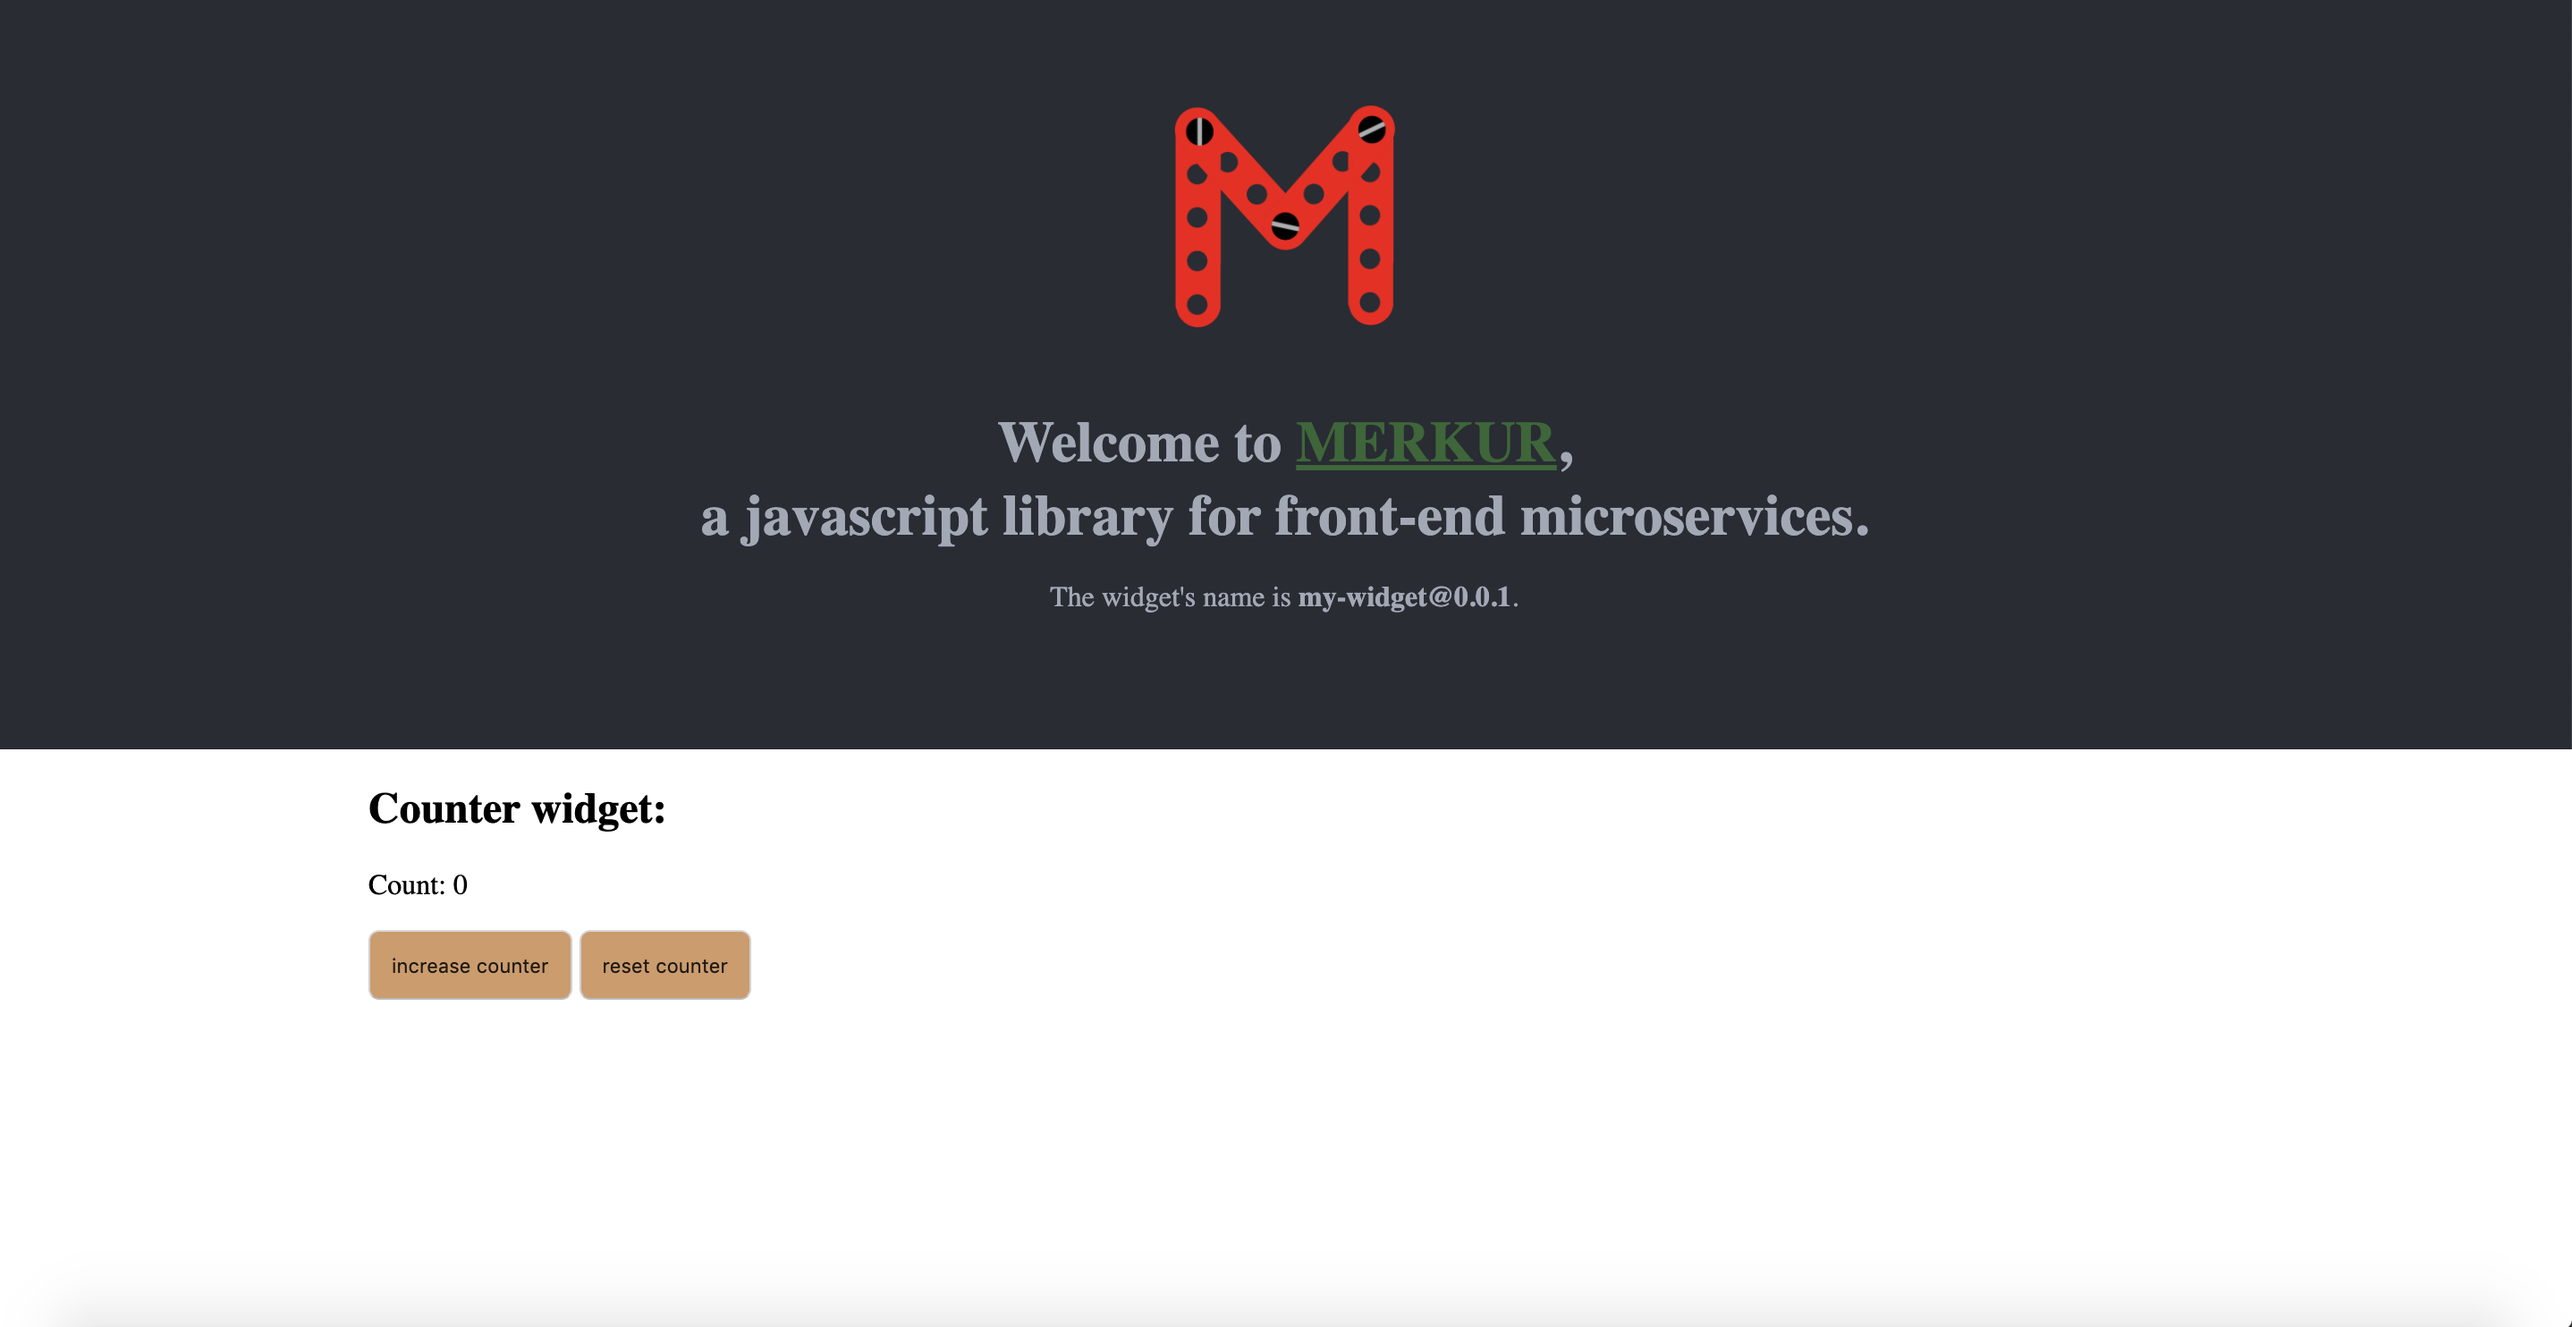
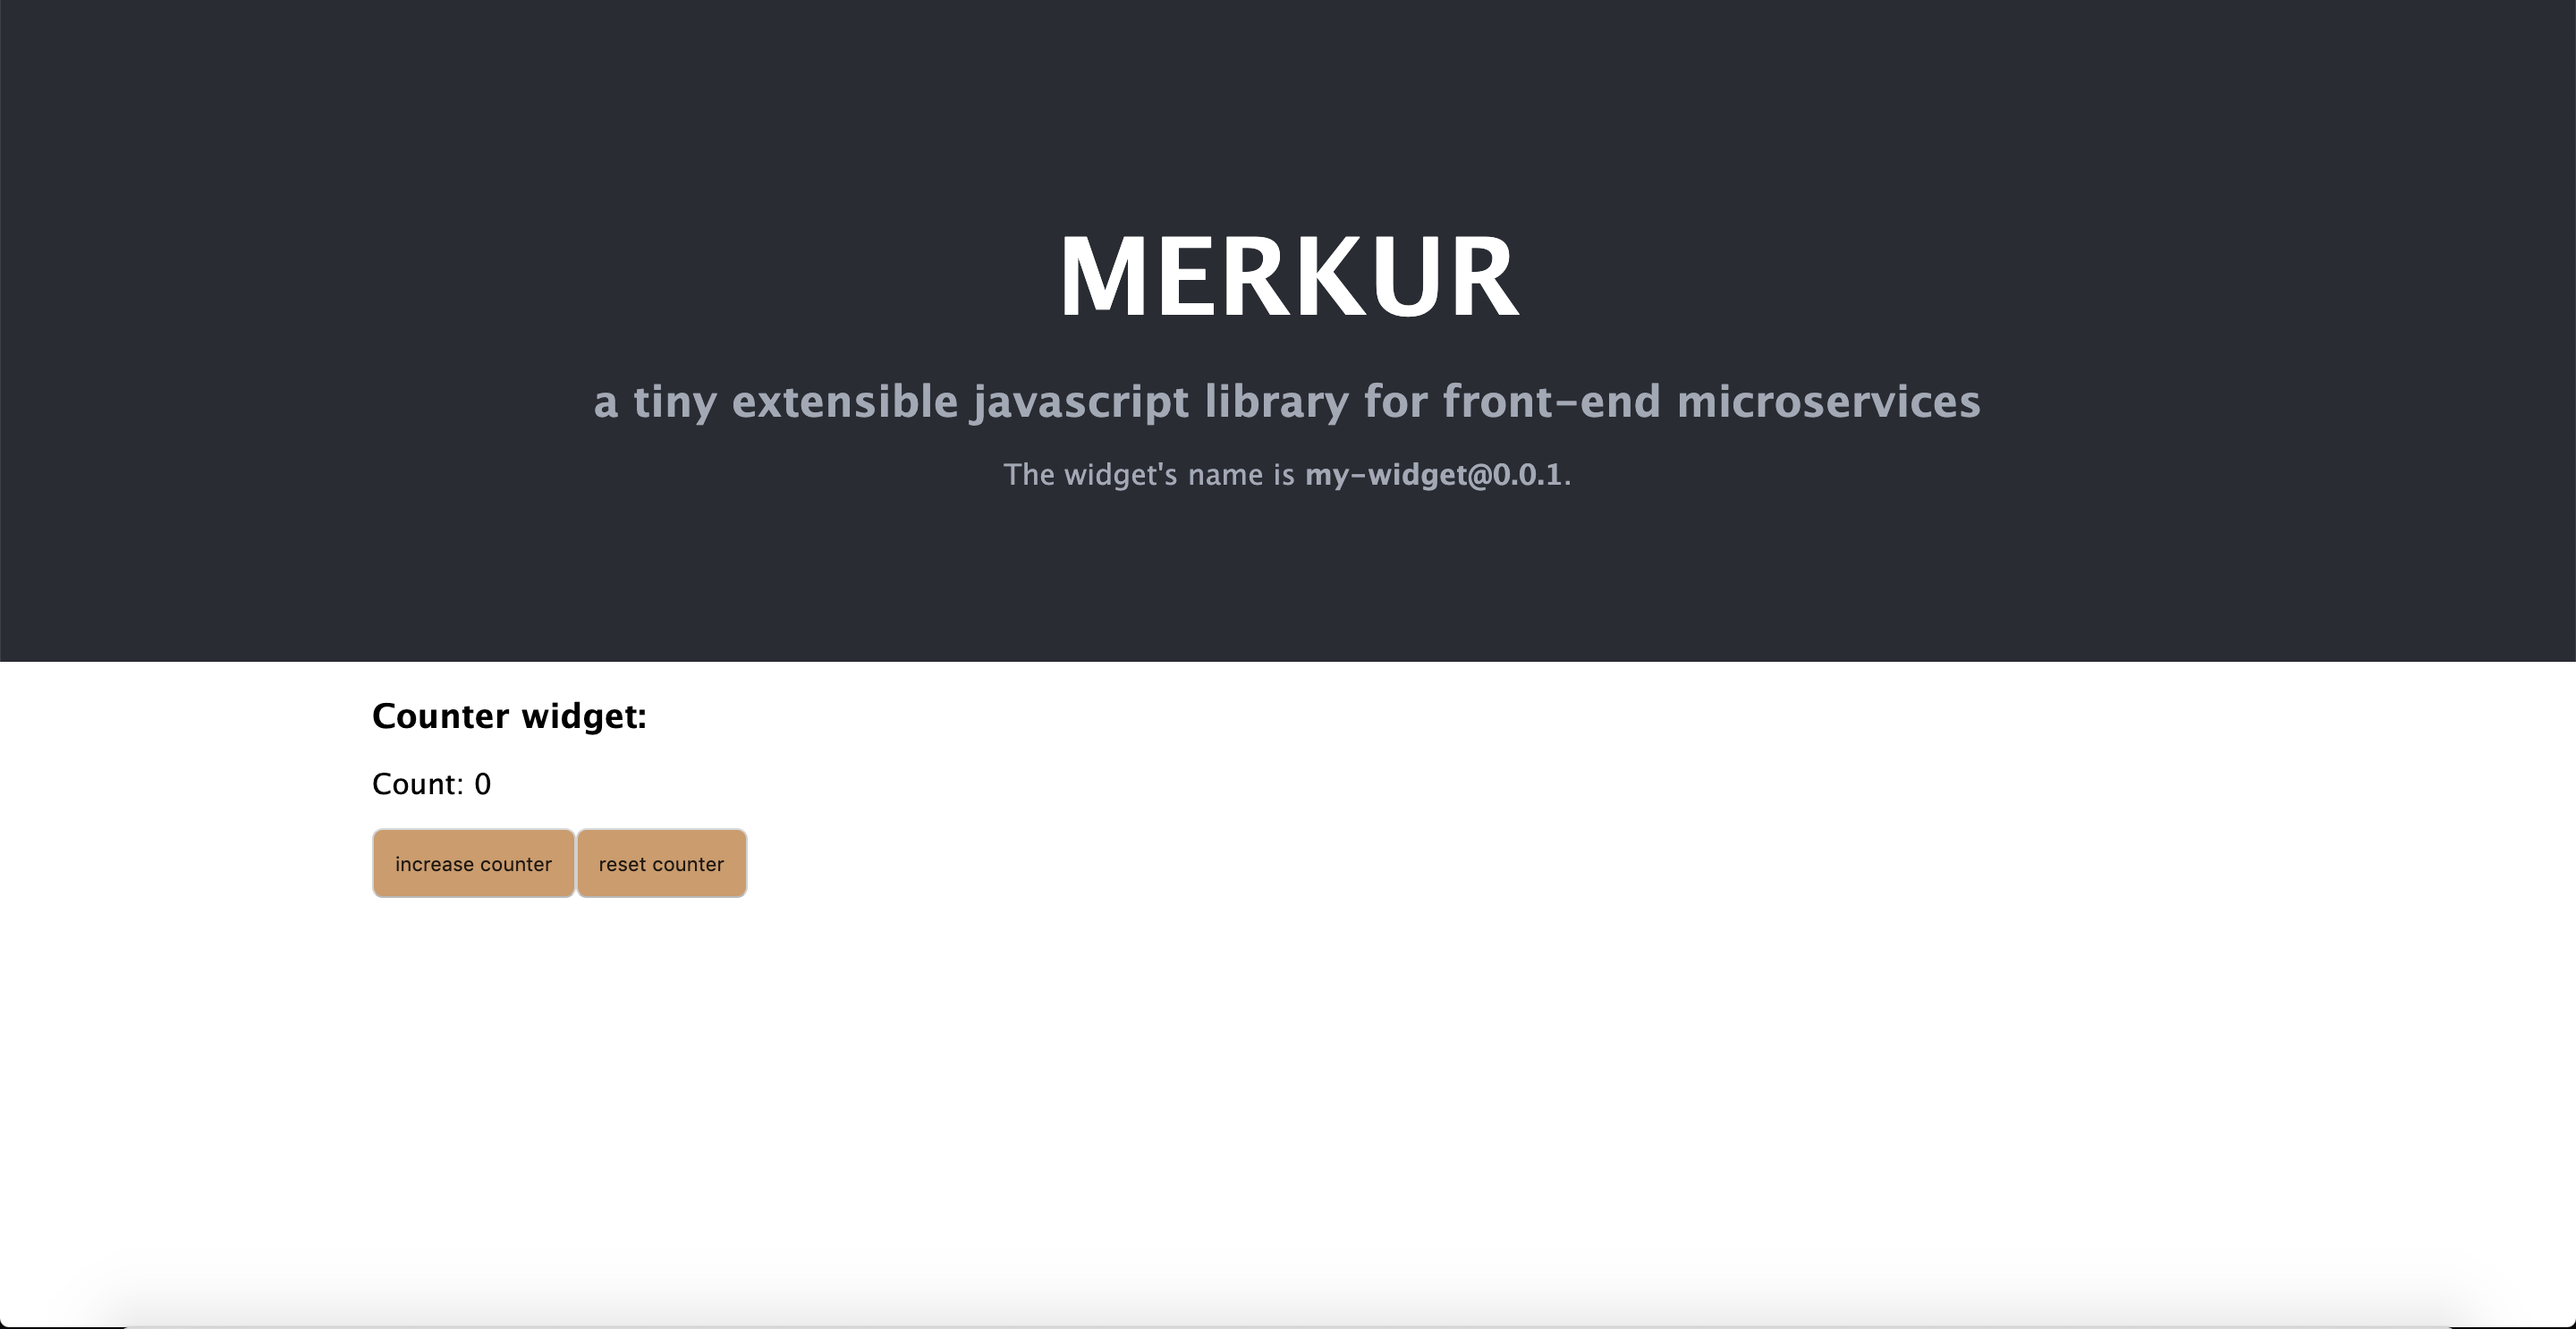
docs: ✏ update images

diff --git a/docs/_includes/navigation.html b/docs/_includes/navigation.html
@@ -4,7 +4,7 @@
       
       <div class="navbar__brand">
         <a class="navbar__item" href="{{ '/' | relative_url }}">
-          <img class="navbar__logo" src="{{ '/assets/images/icons/android-icon-36x36.png?v=' | append: site.github.build_revision | relative_url }}" alt="Merkur logo">
+          <img class="navbar__logo" src="{{ '/assets/images/icons/android-icon-72x72.png?v=' | append: site.github.build_revision | relative_url }}" alt="Merkur logo">
         </a>
         <a role="button" class="navbar-burger" data-target="menu" aria-label="menu" aria-expanded="false">
           <span aria-hidden="true"></span>

diff --git a/packages/create-widget/template/src/style.css b/packages/create-widget/template/src/style.css
@@ -1,6 +1,7 @@
 body {
   margin: 0;
   padding: 0;
+  font-family: 'Lucida Grande', 'Calibri', Helvetica, Arial, sans-serif;
 }
 
 button {
@@ -19,16 +20,27 @@ button {
 
 .merkur__headline {
   background-color: #282c34;
-  padding: 60px 0;
+  padding: 120px 10px 80px 10px;
   color: #a2a8b6;
   text-align: center;
 }
 
 .merkur__headline a {
-  color: #2f6834;
+  color: white;
+  text-decoration: none;
 }
 
 .merkur__headline h1 {
+  font-size: 60px;
+  margin: 0 0 20px 0;
+}
+
+.merkur__headline h2 {
+  margin: 0;
+  line-height: 1.3;
+}
+
+.merkur__headline h3 {
   margin: 40px 0 16px 0;
   line-height: 1.3;
 }

diff --git a/packages/create-widget/views/react/template/src/component/View.jsx b/packages/create-widget/views/react/template/src/component/View.jsx
@@ -1,6 +1,5 @@
 import React from 'react';
 import WidgetContext from './WidgetContext';
-import MerkurIcon from './MerkurIcon';
 import Welcome from './Welcome';
 import WidgetDescription from './WidgetDescription';
 import Counter from './Counter';
@@ -11,7 +10,6 @@ export default function View(widget) {
       <div className="merkur__page">
         <div className="merkur__headline">
           <div className="merkur__view">
-            <MerkurIcon />
             <Welcome />
             <WidgetDescription name={widget.name} version={widget.version} />
           </div>

diff --git a/packages/create-widget/views/preact/template/src/component/Welcome.jsx b/packages/create-widget/views/preact/template/src/component/Welcome.jsx
@@ -2,9 +2,11 @@ import { h } from 'preact'; // eslint-disable-line no-unused-vars
 
 export default function Welcome() {
   return (
-    <h1>
-      Welcome to <a href="https://github.com/mjancarik/merkur">MERKUR</a>,<br />{' '}
-      a javascript library for front-end microservices.
-    </h1>
+    <div>
+      <h1>
+        <a href="https://github.com/mjancarik/merkur">MERKUR</a>
+      </h1>
+      <h2>a tiny extensible javascript library for front-end microservices</h2>
+    </div>
   );
 }

diff --git a/packages/create-widget/views/hyper/template/src/component/Welcome.js b/packages/create-widget/views/hyper/template/src/component/Welcome.js
@@ -1,5 +1,12 @@
 export default function Welcome(widget) {
   return widget.$dependencies.wire(widget.props, ':welcome')`
-    <h1>Welcome to <a href="https://github.com/mjancarik/merkur">MERKUR</a>,<br /> a javascript library for front-end microservices.</h1>
+    <div>
+      <h1>
+        <a href="https://github.com/mjancarik/merkur">MERKUR</a>
+      </h1>
+      <h2>
+        a tiny extensible javascript library for front-end microservices
+      </h2>
+    </div>
   `;
 }

diff --git a/packages/create-widget/views/hyper/template/src/component/View.js b/packages/create-widget/views/hyper/template/src/component/View.js
@@ -1,5 +1,4 @@
 import Welcome from './Welcome';
-import MerkurIcon from './MerkurIcon';
 import Counter from './Counter';
 import WidgetDescription from './WidgetDescription';
 
@@ -8,7 +7,6 @@ export default function View(widget, render) {
       <div class='merkur__page'>
         <div class='merkur__headline'>
           <div class='merkur__view'>
-            ${MerkurIcon(widget)}
             ${Welcome(widget)}
             ${WidgetDescription(widget)}
           </div>

diff --git a/packages/create-widget/views/react/template/src/component/Welcome.jsx b/packages/create-widget/views/react/template/src/component/Welcome.jsx
@@ -2,9 +2,11 @@ import React from 'react';
 
 export default function Welcome() {
   return (
-    <h1>
-      Welcome to <a href="https://github.com/mjancarik/merkur">MERKUR</a>,<br />{' '}
-      a javascript library for front-end microservices.
-    </h1>
+    <div>
+      <h1>
+        <a href="https://github.com/mjancarik/merkur">MERKUR</a>
+      </h1>
+      <h2>a tiny extensible javascript library for front-end microservices</h2>
+    </div>
   );
 }

diff --git a/packages/create-widget/views/preact/template/src/component/Counter.jsx b/packages/create-widget/views/preact/template/src/component/Counter.jsx
@@ -7,7 +7,7 @@ export default function Counter({ counter }) {
 
   return (
     <div>
-      <h2>Counter widget:</h2>
+      <h3>Counter widget:</h3>
       <p>Count: {counter}</p>
       <button onClick={widget.onClick}>increase counter</button>
       <button onClick={widget.onReset}>reset counter</button>

diff --git a/packages/create-widget/views/react/template/src/component/Counter.jsx b/packages/create-widget/views/react/template/src/component/Counter.jsx
@@ -6,7 +6,7 @@ export default function Counter({ counter }) {
 
   return (
     <div>
-      <h2>Counter widget:</h2>
+      <h3>Counter widget:</h3>
       <p>Count: {counter}</p>
       <button onClick={widget.onClick}>increase counter</button>
       <button onClick={widget.onReset}>reset counter</button>

diff --git a/packages/create-widget/views/hyper/template/src/component/Counter.js b/packages/create-widget/views/hyper/template/src/component/Counter.js
@@ -1,7 +1,7 @@
 export default function Counter(widget) {
   return widget.$dependencies.wire()`
     <div>
-      <h2>Counter widget:</h2>
+      <h3>Counter widget:</h3>
       <p>Count: ${widget.state.counter}</p>
       <button onclick=${widget.onClick}>
         increase counter

diff --git a/docs/_sass/navigation.scss b/docs/_sass/navigation.scss
@@ -24,6 +24,8 @@
       border: 0;
       box-shadow: none;
       position: initial;
+      width: 36px;
+      height: 36px;
     }
 
     &menu {

diff --git a/README.md b/README.md
@@ -1,6 +1,6 @@
-<p align="center">
-  <img alt="Merkur" src="https://raw.githubusercontent.com/mjancarik/merkur/master/packages/create-widget/template/server/static/merkur-icon.png" width="133">
-</p>
+<center>
+  <h1 style="font-family: Helvetica, Arial, sans-serif; font-size:60px;">Merkur</h1>
+</center>
 
 [![Build Status](https://travis-ci.com/mjancarik/merkur.svg?branch=master)](https://travis-ci.com/mjancarik/merkur)
 [![NPM package version](https://img.shields.io/npm/v/@merkur/core/latest.svg)](https://www.npmjs.com/package/@merkur/core)
